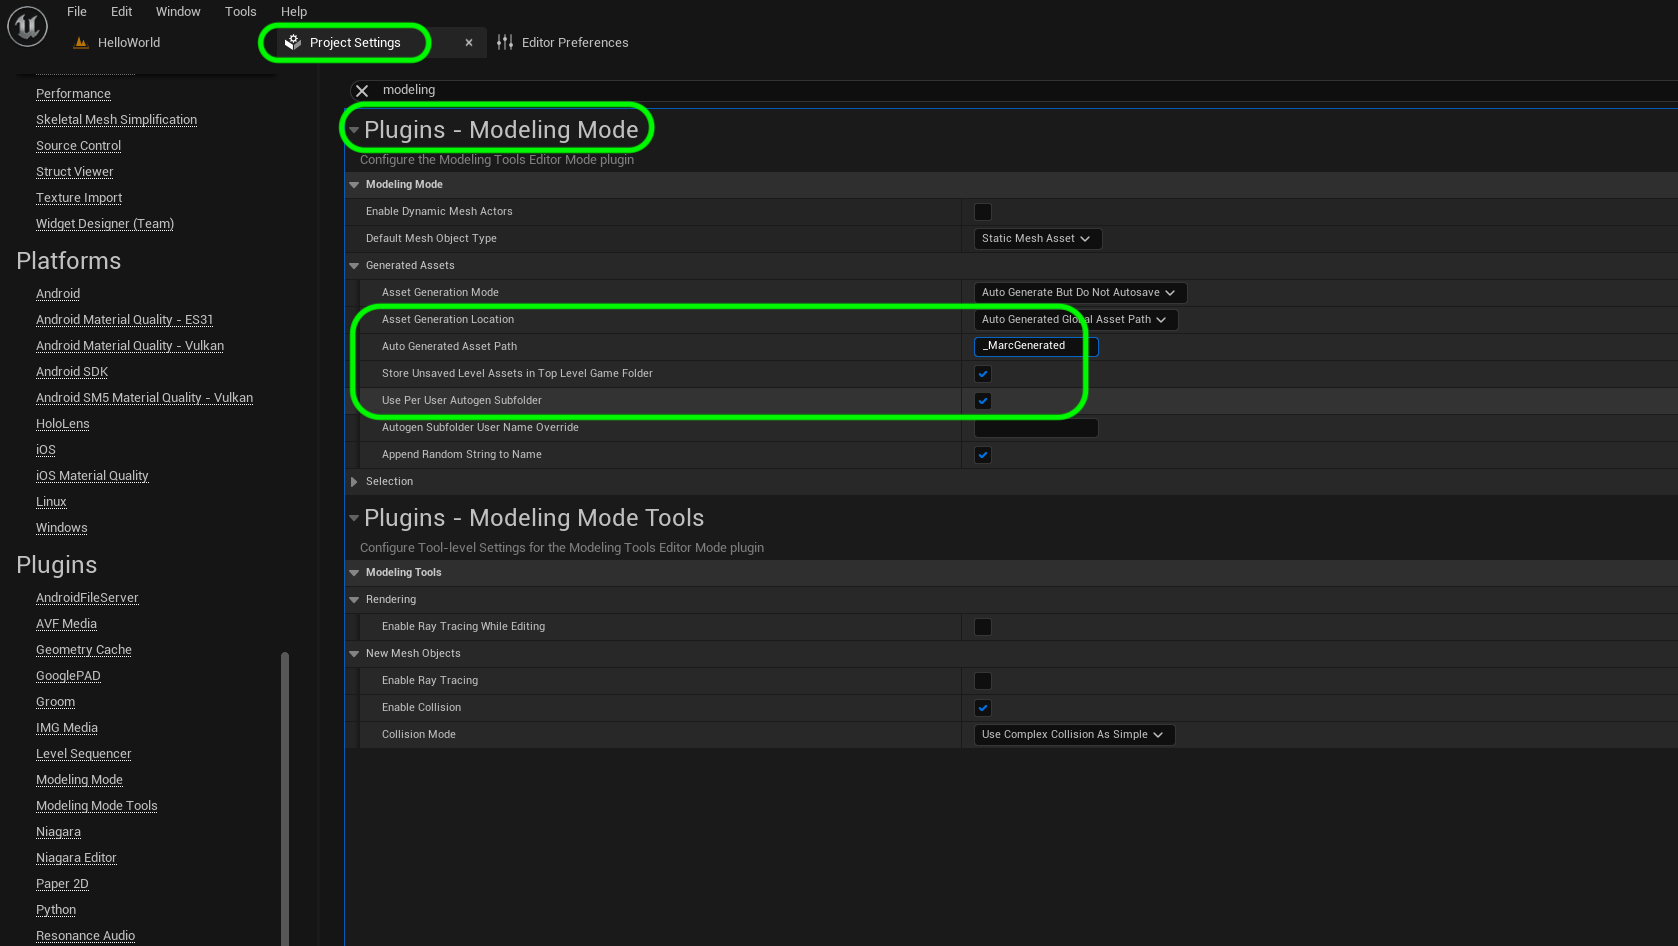
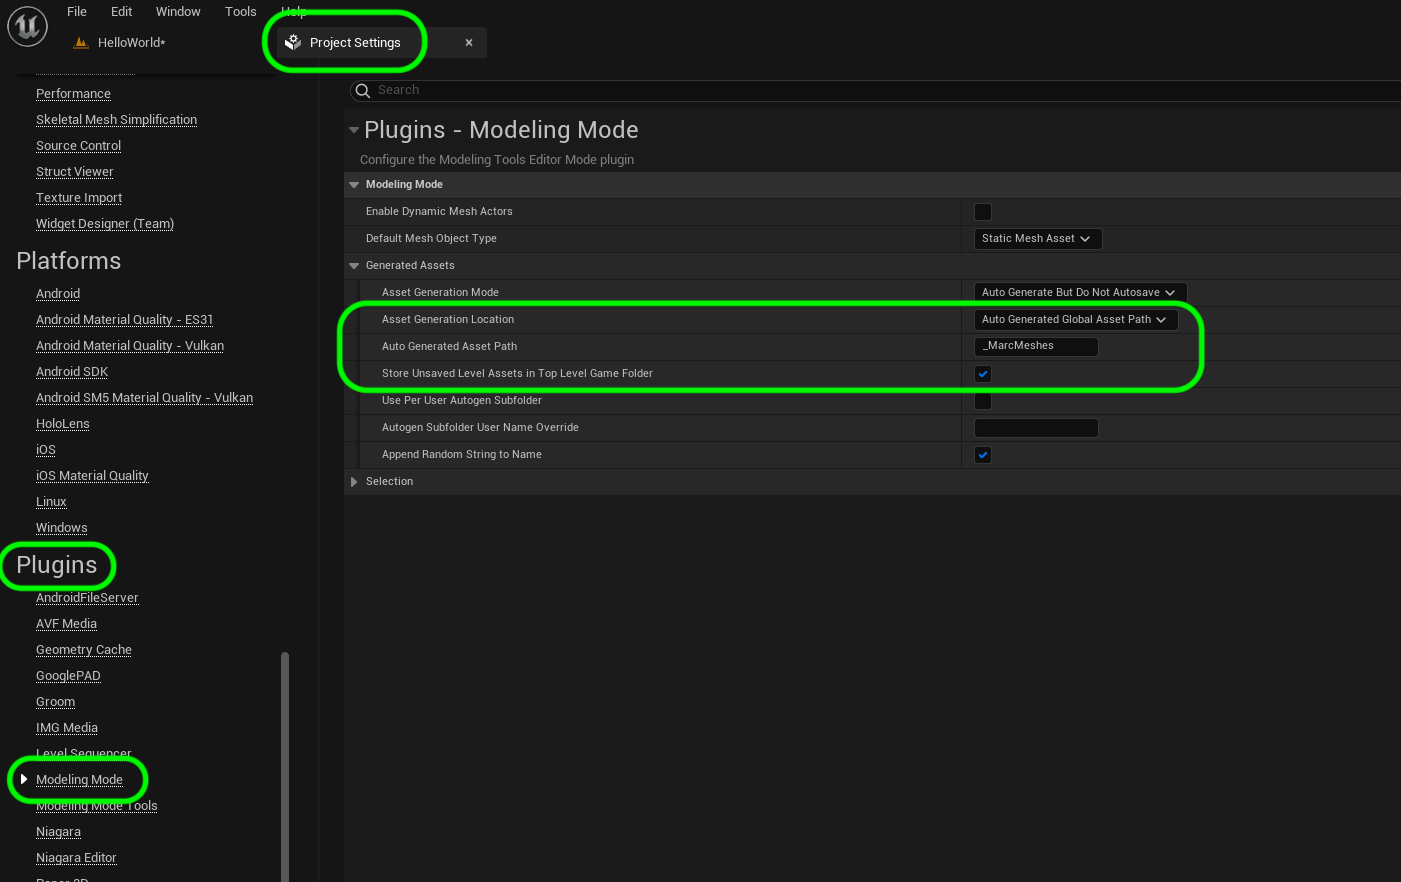
ue4 hello world update p4v

Changed region(s): [[0.0, 0.0, 1.0, 1.0], [0.5832, 0.7653, 0.6752, 0.7959]]

diff --git a/building-h/README.md b/building-h/README.md
@@ -25,7 +25,7 @@ First make sure in **Edit | Plugins** that **Modelling Tools Editor Mode** is en
 
 I want to alter the default settings.  I want all models I create using the tool to start in a scratch directory.  Go to **Edit | Project Settings** and look in **Plugins** for **Modeling Mode**.
 
-I changed the **Auto Generated Asset Path to `MarcGenerated` and made sure the **Asset Generation Locations** was set to `Auto Generated Global Asset Path` and set **Store Unsaved Level Assets in Top Level Game Folder** to `true`.
+I changed the **Auto Generated Asset Path to `MarcMeshes` and made sure the **Asset Generation Locations** was set to `Auto Generated Global Asset Path` and set **Store Unsaved Level Assets in Top Level Game Folder** to `true`.
 
 
 ![add folder to store models(images/settings.png)
@@ -34,9 +34,9 @@ I changed the **Auto Generated Asset Path to `MarcGenerated` and made sure the *
 
 ##### `Step 3.`\|`UE5HW`|:small_blue_diamond: :small_blue_diamond: :small_blue_diamond:
 
-The normal mode we are in when we start the editor is **Select** mode. Click the **Select Mode** button and switch to **Modeling** mode.
+Now go back to our **HelloWorld** level and selecdt **Place Actors | Shapes Cube** to add a 1 meter cube square for reference.  This is 3.2 feet squared for reference.
 
-![alt text](images/modelingMode.png)
+![add cube to level](images/AddCube.png)
 
 <img src="https://via.placeholder.com/500x2/45D7CA/45D7CA" alt="drawing" height="2px" alt = ""/>
 
@@ -54,7 +54,9 @@ The normal mode we are in when we start the editor is **Select** mode. Click the
 
 ##### `Step 6.`\|`UE5HW`| :small_orange_diamond: :small_blue_diamond:
 
-![alt text](images/.png)
+The normal mode we are in when we start the editor is **Select** mode. Click the **Select Mode** button and switch to **Modeling** mode.
+
+![alt text](images/modelingMode.png)
 
 <img src="https://via.placeholder.com/500x2/45D7CA/45D7CA" alt="drawing" height="2px" alt = ""/>
 
